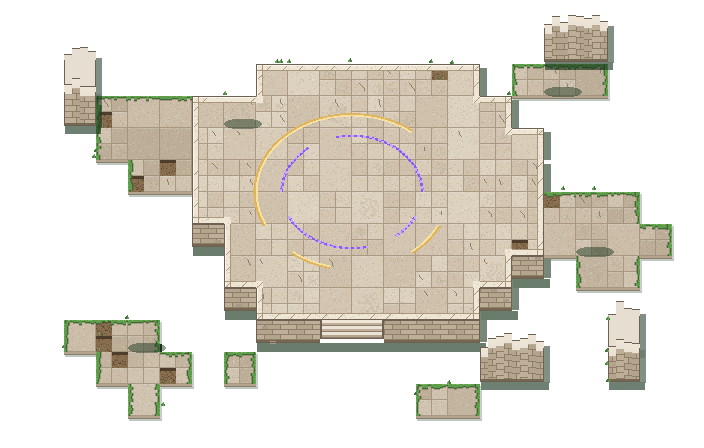
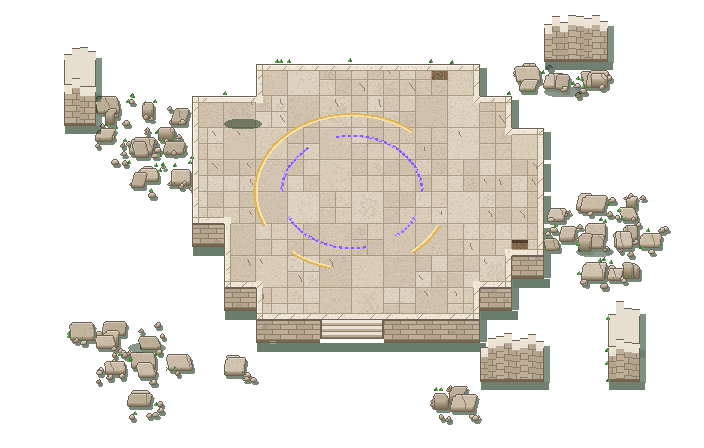
Ruins: scattered fallen stones instead of flat paving fragments
The pieces around the dais are no longer grid-aligned patches of floor
tiles. Each 'm' tile now scatters a few fallen stone blocks in 3/4 view
(lying slabs, slabs stuck in the ground at an angle, chunky blocks) with
a lit top, darker front, dark outline, cracks, a dark-green shadow to the
lower right, small rubble chips and grass growing from underneath.
Column contact shadows no longer stack with other shadows.

Claude-Session: https://claude.ai/code/session_01TTfJFHpXzGENbNp8eXSsK8

diff --git a/js/data/maps/town.js b/js/data/maps/town.js
@@ -10,8 +10,8 @@ const rect = (x0, y0, x1, y1, c) => { for (let y = y0; y <= y1; y++) for (let x 
 rect(0, 0, W - 1, H - 1, '#'); rect(1, 1, W - 2, H - 2, '.');   // 外圍樹牆
 // 召喚神殿遺跡（斜俯視的 2D 地圖，看得到東西的頂面和正面）：
 // 中間是一座墊高的石台（P），召喚台在上面，正面是一道石牆、中間有台階；
-// 四周零星散著幾塊平鋪在地上的石板（m）和幾段斷牆（R）。
-// P：石台頂面（可以走）　m：地上的石板（可以走）　R：斷牆（擋路）　.：草地
+// 四周是倒塌散落在草地上的石塊與碎石（m）和幾段斷牆（R）。
+// P：石台頂面（可以走）　m：散落的石塊（可以走）　R：斷牆（擋路）　.：草地
 // 石台南邊露出來的那一格是石台的正面（擋路），只有 TEMPLE_STAIRS 那兩格是台階可以走上去。
 // 這張表從地圖 (9, 1) 開始，一列是一行。tools/make_pixel_temple.py 會讀同一張表畫佈景圖 decor.temple，
 // 所以只要改這裡、再重跑那支程式，碰撞和畫面就會一致。

diff --git a/tools/make_pixel_temple.py b/tools/make_pixel_temple.py
@@ -150,49 +150,96 @@ def decor_temple():
                 shade_rect(x0 + 32, y0 + 4, x0 + 38, y0 + 31 + (FH if cell(gx, gy + 1) != 'P' else 0), 150)   # 右側
             if cell(gx, gy + 1) != 'P':
                 shade_rect(x0 + 1, y0 + 32 + FH + 1, x0 + 37, y0 + 32 + FH + 9, 165)                             # 正面牆腳
-        if c == 'm':
-            if cell(gx, gy + 1) not in 'mP':
-                shade_rect(x0 + 1, y0 + 35, x0 + 33, y0 + 36, 70)
-            if cell(gx + 1, gy) not in 'mP':
-                shade_rect(x0 + 32, y0 + 2, x0 + 33, y0 + 34, 60)
-    # ── 2. 地上的石板：平鋪，邊緣有缺塊、南緣露出一點厚度 ──
+    # ── 2. 倒塌散落的石塊：不是平鋪的地磚，而是從神殿掉下來、散在草地上的一塊一塊石板和碎石。
+    #        每塊都是斜俯視的小石塊：頂面（亮、有時歪一點）＋正面（暗）＋深色外框＋右下的影子；
+    #        有的平躺、有的斜插在土裡只露出一角；旁邊有小碎石和從石塊底下冒出來的草 ──
+    from PIL import Image as _I
+
+    def stone_block(w, d, h, skew, tone, rk):
+        """畫一塊石頭到小圖上，回傳 (圖, 底部 y)"""
+        Wt, Ht = w + abs(skew) + 4, d + h + 4
+        b = _I.new('RGBA', (Wt, Ht), (0, 0, 0, 0))
+        ox_ = 2 + max(0, -skew)
+        top = C(tone)
+        for r_ in range(d):                                         # 頂面：越往上越往 skew 方向偏（看起來歪著）
+            sh = round(skew * (d - 1 - r_) / max(1, d - 1))
+            for i in range(w):
+                if (r_ == 0 and (i == 0 or i == w - 1)) and rnd(rk, 'corner', i) < 0.8:
+                    continue                                        # 磨圓的角
+                if r_ < 2 and i < 2 and rnd(rk, 'chip') < 0.5:
+                    continue                                        # 缺角
+                c = top
+                if r_ == 0:
+                    c = mix(top, '#ffffff', 0.35)
+                elif i == 0:
+                    c = mix(top, '#ffffff', 0.15)
+                elif i == w - 1:
+                    c = mix(top, GROUT, 0.35)
+                elif rnd(rk, 'spk', i, r_) < 0.08:
+                    c = mix(top, GROUT, 0.3)
+                b.putpixel((ox_ + sh + i, 2 + r_), c)
+        for r_ in range(h):                                         # 正面：比較暗，最下面一條最暗
+            for i in range(w):
+                c = mix(C(FACE_A), C(FACE_DARK), r_ / max(1, h))
+                if i >= w - 2:
+                    c = mix(c, C(FACE_DARK), 0.4)
+                b.putpixel((ox_ + i, 2 + d + r_), c)
+        if rnd(rk, 'crack') < 0.35 and w > 8:                       # 一道裂縫從頂面裂到正面
+            cx_ = ox_ + 3 + int(rnd(rk, 'cx') * (w - 6))
+            for yy in range(2, 2 + d + h):
+                if cx_ < Wt and b.getpixel((cx_, yy))[3]:
+                    b.putpixel((cx_, yy), C(CRACK))
+                cx_ += 1 if rnd(rk, 'cd', yy) < 0.3 else 0
+        outline(b)
+        return b, 2 + d + h
+
+    pieces = []
     for (gx, gy), c in grid.items():
         if c != 'm':
             continue
-        edge = any(cell(gx + i, gy + j) not in 'mP' for i, j in ((1, 0), (-1, 0), (0, 1), (0, -1)))
-        tiles16(gx, gy, PAVE, 0.14 if edge else 0.04)
         x0, y0 = org(gx, gy)
-        if cell(gx, gy + 1) not in 'mP':
-            rect(im, x0, y0 + 32, x0 + 31, y0 + 33, '#b2a48f')
-            rect(im, x0, y0 + 34, x0 + 31, y0 + 34, '#8c7e6a')
-    # ── 2b. 地上石板的邊緣：草從旁邊長過來蓋住石板一點點（參考圖裡草地邊緣那種不規則的一圈），
-    #        草的邊上一條深綠線，石板被草蓋住的地方暗一點 → 石板看起來是陷在草地裡的 ──
-    GR, GR_D, GR_L = '#5e9c4c', '#3c6e34', '#7cb862'
-    for (gx, gy), c in grid.items():
-        if c != 'm':
-            continue
-        x0, y0 = org(gx, gy)
-        for side in ('n', 'w', 'e'):
-            nb = {'n': (gx, gy - 1), 'w': (gx - 1, gy), 'e': (gx + 1, gy)}[side]
-            if cell(*nb) in 'mP':
-                continue
-            for t in range(32):
-                depth = 1 + int(4 * rnd('gd', gx, gy, side, t // 3))
-                for d in range(depth + 2):
-                    if side == 'n':
-                        x, y = x0 + t, y0 + d
-                    elif side == 'w':
-                        x, y = x0 + d, y0 + t
-                    else:
-                        x, y = x0 + 31 - d, y0 + t
-                    if not (0 <= x < W and 0 <= y < H):
-                        continue
-                    if d < depth:
-                        px(im, x, y, GR_L if d == 0 and rnd('gl', x, y) < 0.3 else GR)
-                    elif d == depth:
-                        px(im, x, y, GR_D)                                  # 草邊的深色線
-                    else:
-                        px(im, x, y, mix(im.getpixel((x, y)), '#5a4f40', 0.35))   # 草下的石板暗一點
+        n = 1 + int(rnd('np', gx, gy) * 2.6)
+        for i in range(n):
+            k = ('pc', gx, gy, i)
+            kind = rnd(k, 'kind')
+            if kind < 0.6:                                          # 平躺的石板
+                w, d, h = 12 + int(rnd(k, 'w') * 12), 8 + int(rnd(k, 'd') * 6), 3 + int(rnd(k, 'h') * 2)
+            elif kind < 0.85:                                       # 斜插在土裡、只露出一角
+                w, d, h = 8 + int(rnd(k, 'w') * 8), 3 + int(rnd(k, 'd') * 3), 7 + int(rnd(k, 'h') * 5)
+            else:                                                   # 方正的石塊
+                w, d, h = 10 + int(rnd(k, 'w') * 6), 6 + int(rnd(k, 'd') * 4), 8 + int(rnd(k, 'h') * 4)
+            skew = int(rnd(k, 'sk') * 7) - 3
+            tone = PAVE[int(rnd(k, 'tone') * len(PAVE))]
+            x = x0 + int(rnd(k, 'x') * max(1, 32 - w)) - 3
+            y = y0 + int(rnd(k, 'y') * max(1, 30 - d - h)) - 2
+            pieces.append((y + d + h, x, y, w, d, h, skew, tone, k))
+        for i in range(3 + int(rnd('nr', gx, gy) * 5)):             # 小碎石
+            k = ('rb', gx, gy, i)
+            w = 3 + int(rnd(k, 'w') * 4)
+            pieces.append((0, x0 + int(rnd(k, 'x') * 34) - 2, y0 + int(rnd(k, 'y') * 32), w, 2, 1 + int(rnd(k, 'h') * 2), 0,
+                           PAVE[int(rnd(k, 't') * len(PAVE))], k))
+    pieces = [(y + d + h, x, y, w, d, h, sk, t, k) for (_, x, y, w, d, h, sk, t, k) in pieces]
+    for bot, x, y, w, d, h, sk, tone, k in sorted(pieces):
+        b, bh = stone_block(w, d, h, sk, tone, k)
+        # 影子：往右下，深綠色
+        for yy in range(b.size[1]):
+            for xx in range(b.size[0]):
+                if b.getpixel((xx, yy))[3]:
+                    X, Y = x + xx + 2, y + yy + 3
+                    if 0 <= X < W and 0 <= Y < H and not (0 <= x + xx < W and 0 <= y + yy < H and im.getpixel((min(W - 1, x + xx + 2), min(H - 1, y + yy + 3)))[3] > 200):
+                        shade_rect(X, Y, X, Y, 150)
+        for yy in range(b.size[1]):
+            for xx in range(b.size[0]):
+                c = b.getpixel((xx, yy))
+                if c[3] and 0 <= x + xx < W and 0 <= y + yy < H:
+                    px(im, x + xx, y + yy, c)
+        if w > 6 and rnd(k, 'tuft') < 0.55:                          # 石塊底下冒出來的草
+            for t in range(2 + int(rnd(k, 'tn') * 3)):
+                tx = x + 2 + int(rnd(k, 'tx', t) * (w + 2))
+                ty = y + bh - 1 + int(rnd(k, 'ty', t) * 2)
+                for hh in range(2 + int(rnd(k, 'th', t) * 3)):
+                    if 0 <= tx < W and 0 <= ty - hh < H:
+                        px(im, tx + (1 if hh == 2 and t % 2 else 0), ty - hh, TUFT[(t + hh) % 3])
     # ── 3. 石台頂面 ──
     for (gx, gy), c in grid.items():
         if c != 'P':
@@ -337,7 +384,7 @@ def decor_temple():
             for x in range(x0 - 2, x0 + 38):
                 dx, dy = (x + 0.5 - (x0 + 19)) / 19, (y + 0.5 - (y0 + 28)) / 5.5
                 if dx * dx + dy * dy <= 1 and 0 <= x < W and 0 <= y < H:
-                    blend_px(im, x, y, SHADOW + (120,))
+                    shade_rect(x, y, x, y, 130)
     # ── 7. 草：從石板邊緣、石縫冒出來的一叢一叢深綠色小草 ──
     for i in range(900):
         keys = [k for k, c in grid.items() if c in 'mPR']

diff --git a/AGENTS.md b/AGENTS.md
@@ -53,8 +53,8 @@
 - **手機直式／橫式**：`ui.js` 依目前畫面大小在 `<html>` 加上 `vp-portrait`／`vp-landscape`、`vp-narrow`（寬 ≤ 560，直拿）、`vp-short`（高 ≤ 520，橫拿），並設定 `--app-h`；手機自動旋轉、網址列縮放時會重新判斷，並送出 `view:resize`。
   - 手機版面的規則都寫在 `css/base.css` 最後「手機版面」那一段：橫拿時標題列變薄、地圖／許願樹／角色卡改成左右兩欄；直拿時狀態列排成一行（很窄時只留圖示）。
   - 互動提示：電腦版顯示「F　進入小屋」，手機只顯示「進入小屋」（提示本身可以點）。
-- **召喚神殿遺跡（地圖上抽卡的地方）**：斜俯視（3/4 視角）的 2D 畫法，看得到東西的頂面和正面。中間是一座墊高的石台（正面石牆＋台階），召喚台在上面；四周零星散著平鋪的石板和幾段斷牆、四根柱子。
-  - 石台（`P`）、地上石板（`m`）、斷牆（`R`）寫在 `js/data/maps/town.js` 的 `RUINS` 表（`RUINS-BEGIN`～`RUINS-END`）。石台南邊露出的那一格自動變成石牆（`F`，擋路），`TEMPLE_STAIRS` 那兩格是台階（`S`）。
+- **召喚神殿遺跡（地圖上抽卡的地方）**：斜俯視（3/4 視角）的 2D 畫法，看得到東西的頂面和正面。中間是一座墊高的石台（正面石牆＋台階），召喚台在上面；四周是倒塌散落在草地上的石塊與碎石、幾段斷牆、四根柱子。
+  - 石台（`P`）、散落的石塊（`m`）、斷牆（`R`）寫在 `js/data/maps/town.js` 的 `RUINS` 表（`RUINS-BEGIN`～`RUINS-END`）。石台南邊露出的那一格自動變成石牆（`F`，擋路），`TEMPLE_STAIRS` 那兩格是台階（`S`）。
   - 外觀是一整張佈景圖 `decor.temple`，由 `tools/make_pixel_temple.py` 讀同一張表畫出來；**改了表要重跑那支程式**。
   - 畫法規則（新畫的物件請照做）：光從左上來；頂面亮、正面暗；外面一圈深色外框；影子是深綠色、落在正下方和右邊。
   - 召喚台上的光芒與飄起的紫色、金色亮點，以及繞著召喚台公轉的卡片，都畫在 `world/types.js` 的 `altar.drawOver`。
